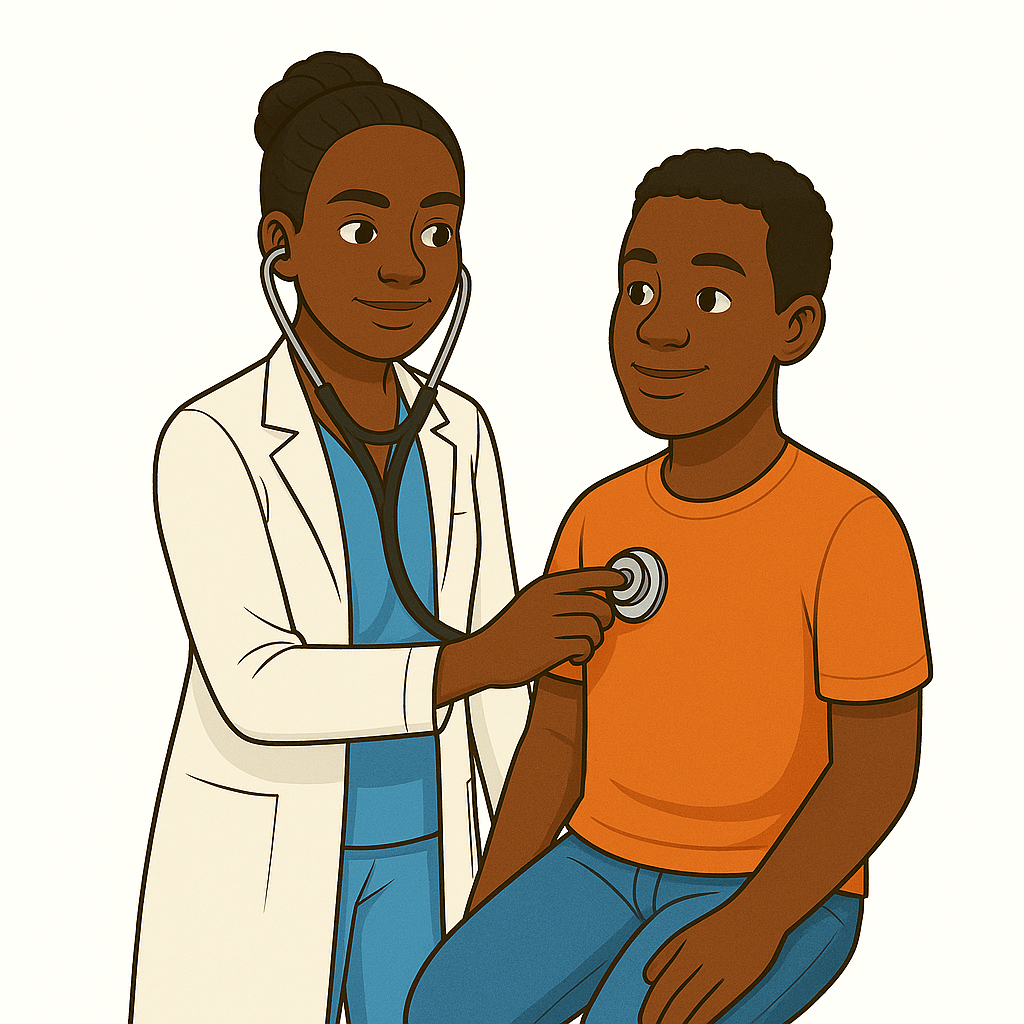
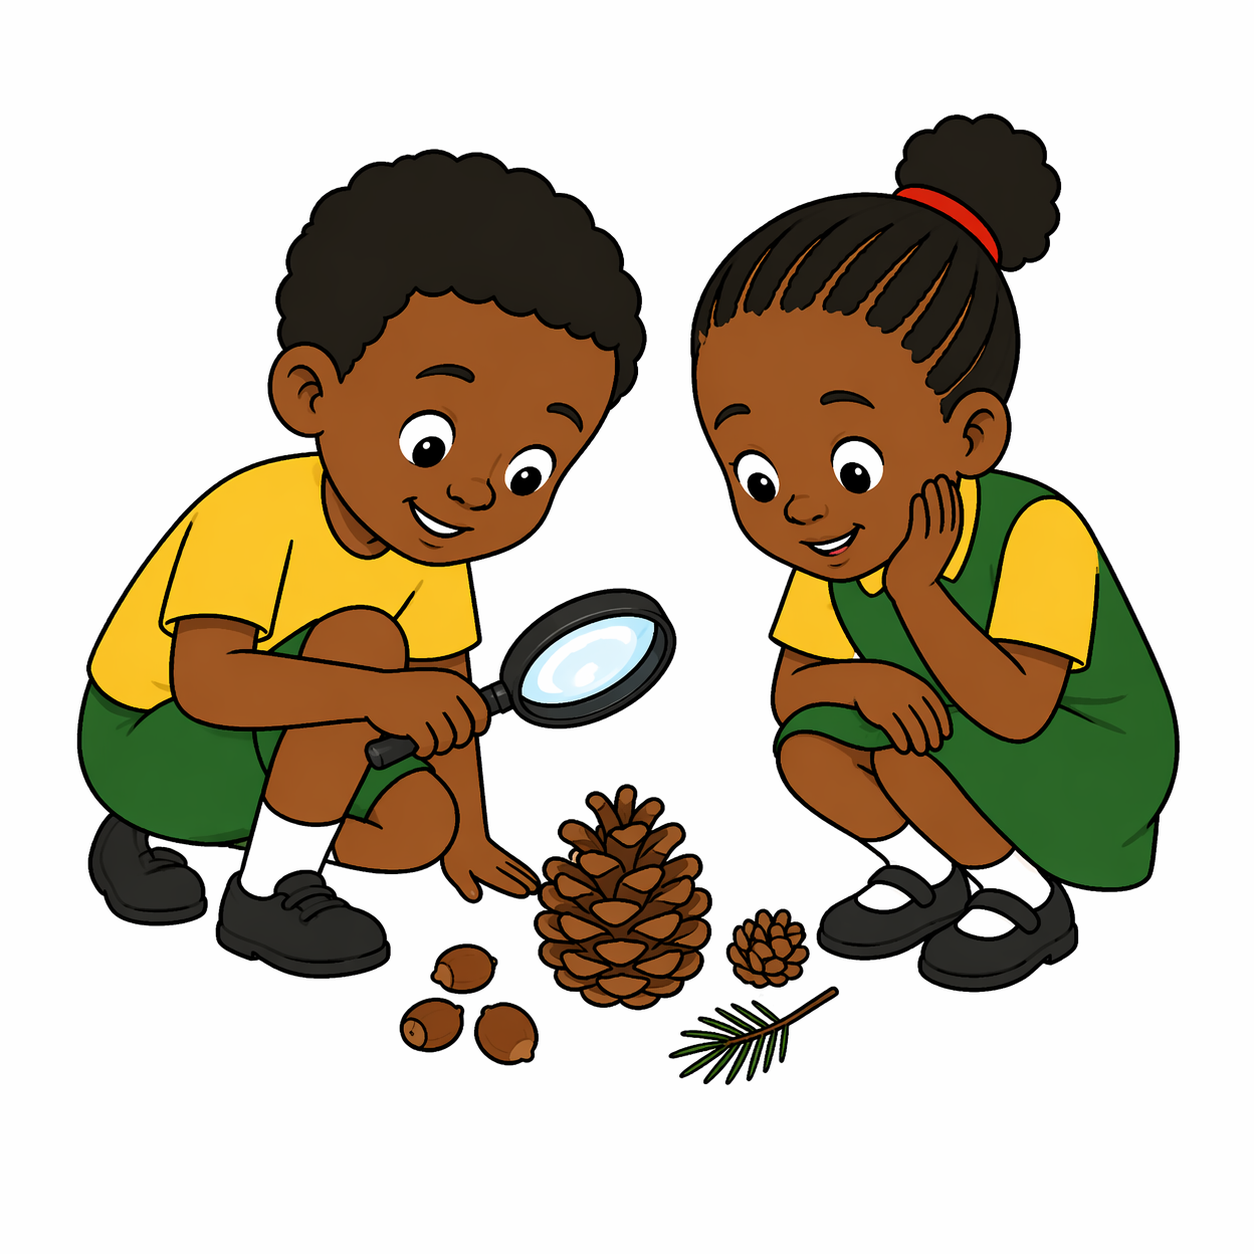
new images and vaccinate -> study

diff --git a/src/orev.html b/src/orev.html
@@ -402,7 +402,7 @@
               <img
                 class="upper-right"
                 data-word-category="dist1"
-                src="images/verbs/V_vaccinate.png"
+                src="images/verbs/V_study.png"
               />
             </div>
             <div class="image">
